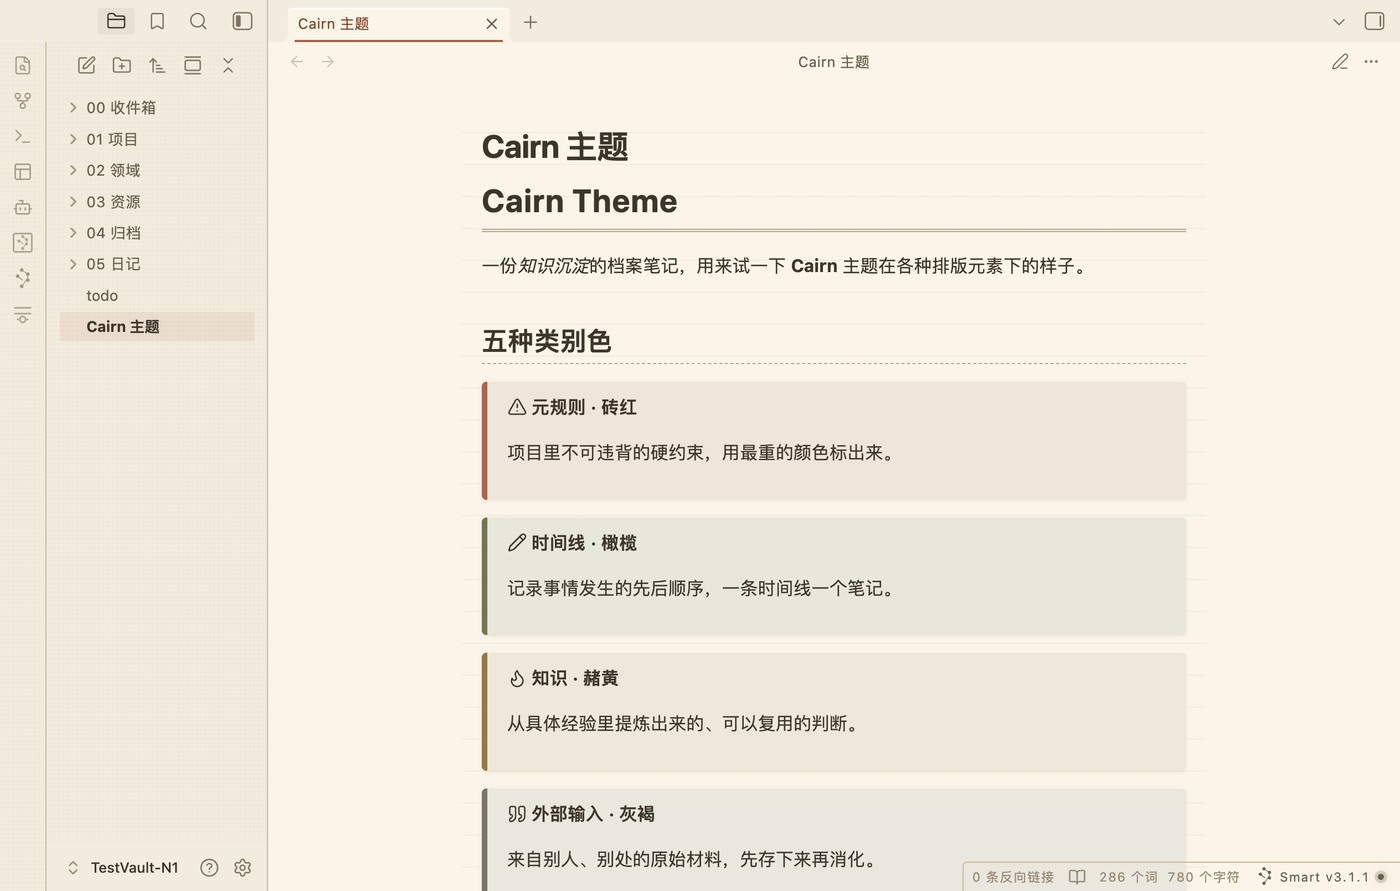
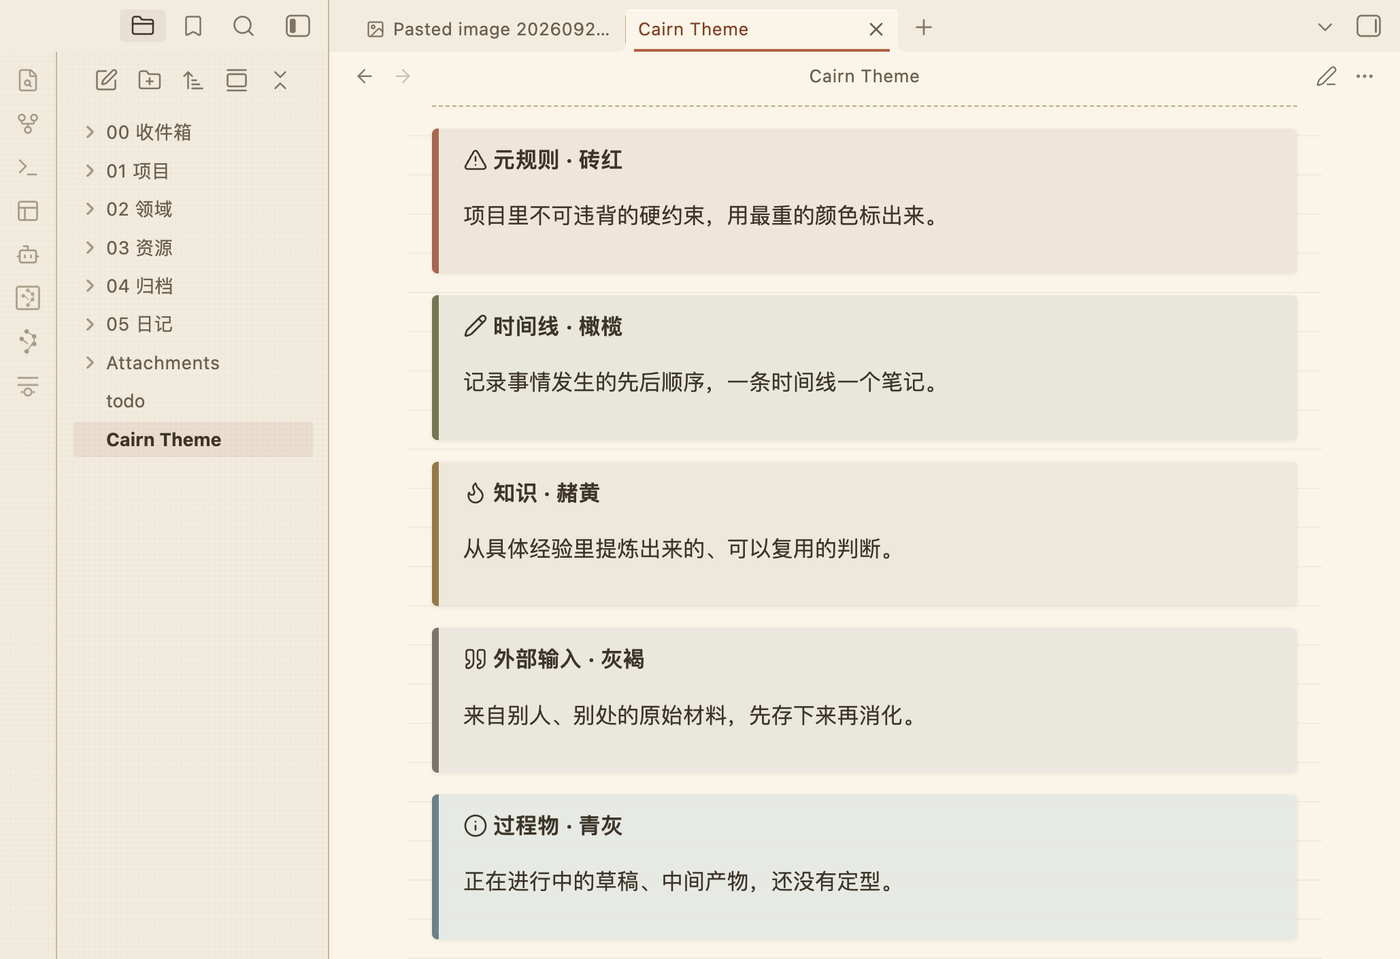
Add diagonal light/dark hero image and refresh showcase screenshots
- media/hero.png: a diagonal split of the same note in light and dark
  mode, in the style used by other community theme listings.
- Re-shot callouts.png and components.png against the current demo
  note (which now also embeds an image), and fixed the blockquote crop
  that was previously missing its top border and folded corner.

diff --git a/README.zh-CN.md b/README.zh-CN.md
@@ -2,6 +2,8 @@
 
 *语言切换： [English](README.md) | **中文***
 
+![Cairn —— 浅色与深色模式斜向拼接](media/hero.png)
+
 一个 Obsidian 的牛皮纸档案主题——让你的知识库看起来像摆在暖色书桌上的一张张实体文件。
 
 暖色的纸张中性色、棕色墨水、单一的赭红色强调色，配上干净的无衬线字体。圆角小而带档案感，
@@ -10,7 +12,7 @@
 
 ## 截图
 
-标题与五色标注（callout）系统：
+五色标注（callout）系统：
 
 ![Cairn 的标注系统 —— 五种类别色映射到 Obsidian 的 callout 类型](media/callouts.png)
 

diff --git a/README.md b/README.md
@@ -2,6 +2,8 @@
 
 *Read this in: **English** | [中文](README.zh-CN.md)*
 
+![Cairn — light mode and dark mode, split diagonally](media/hero.png)
+
 A kraft-paper archive for Obsidian — your vault as physical files on a warm
 paper desk.
 
@@ -12,7 +14,7 @@ no cool grays anywhere.
 
 ## Screenshots
 
-Headings and the five-colour callout system:
+The five-colour callout system:
 
 ![Cairn callouts — five category colours mapped onto Obsidian's callout types](media/callouts.png)
 
